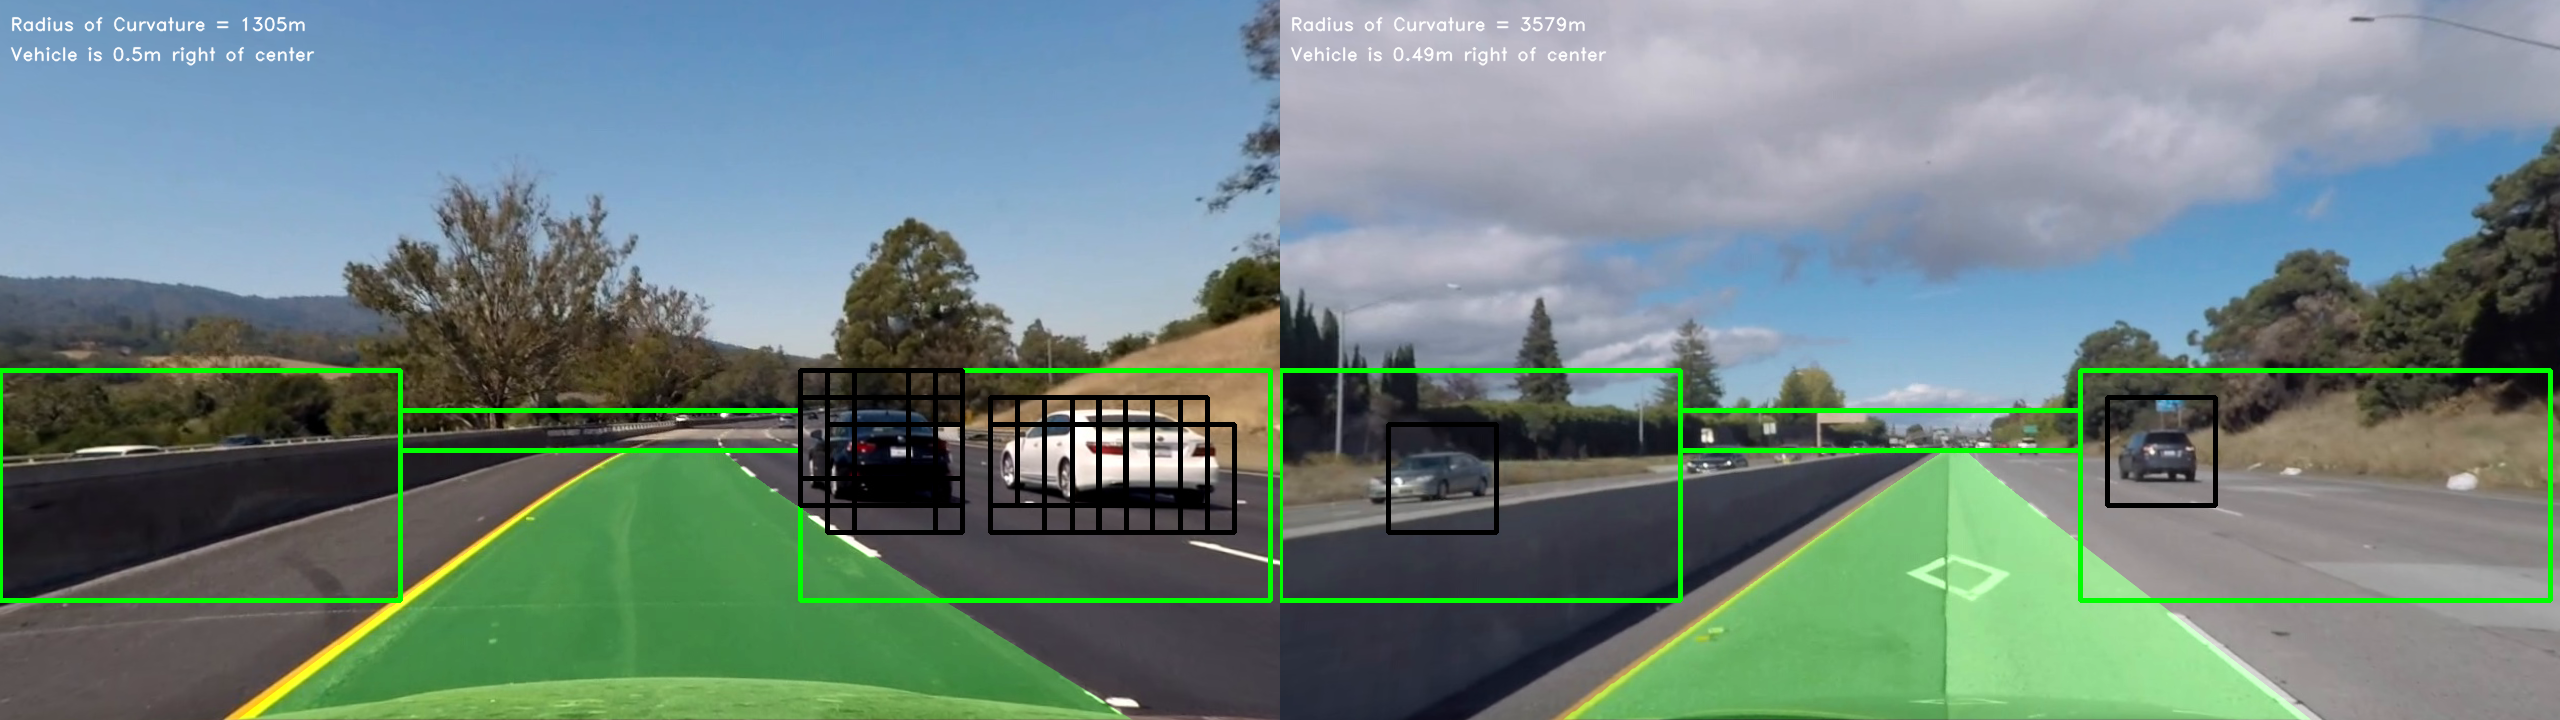
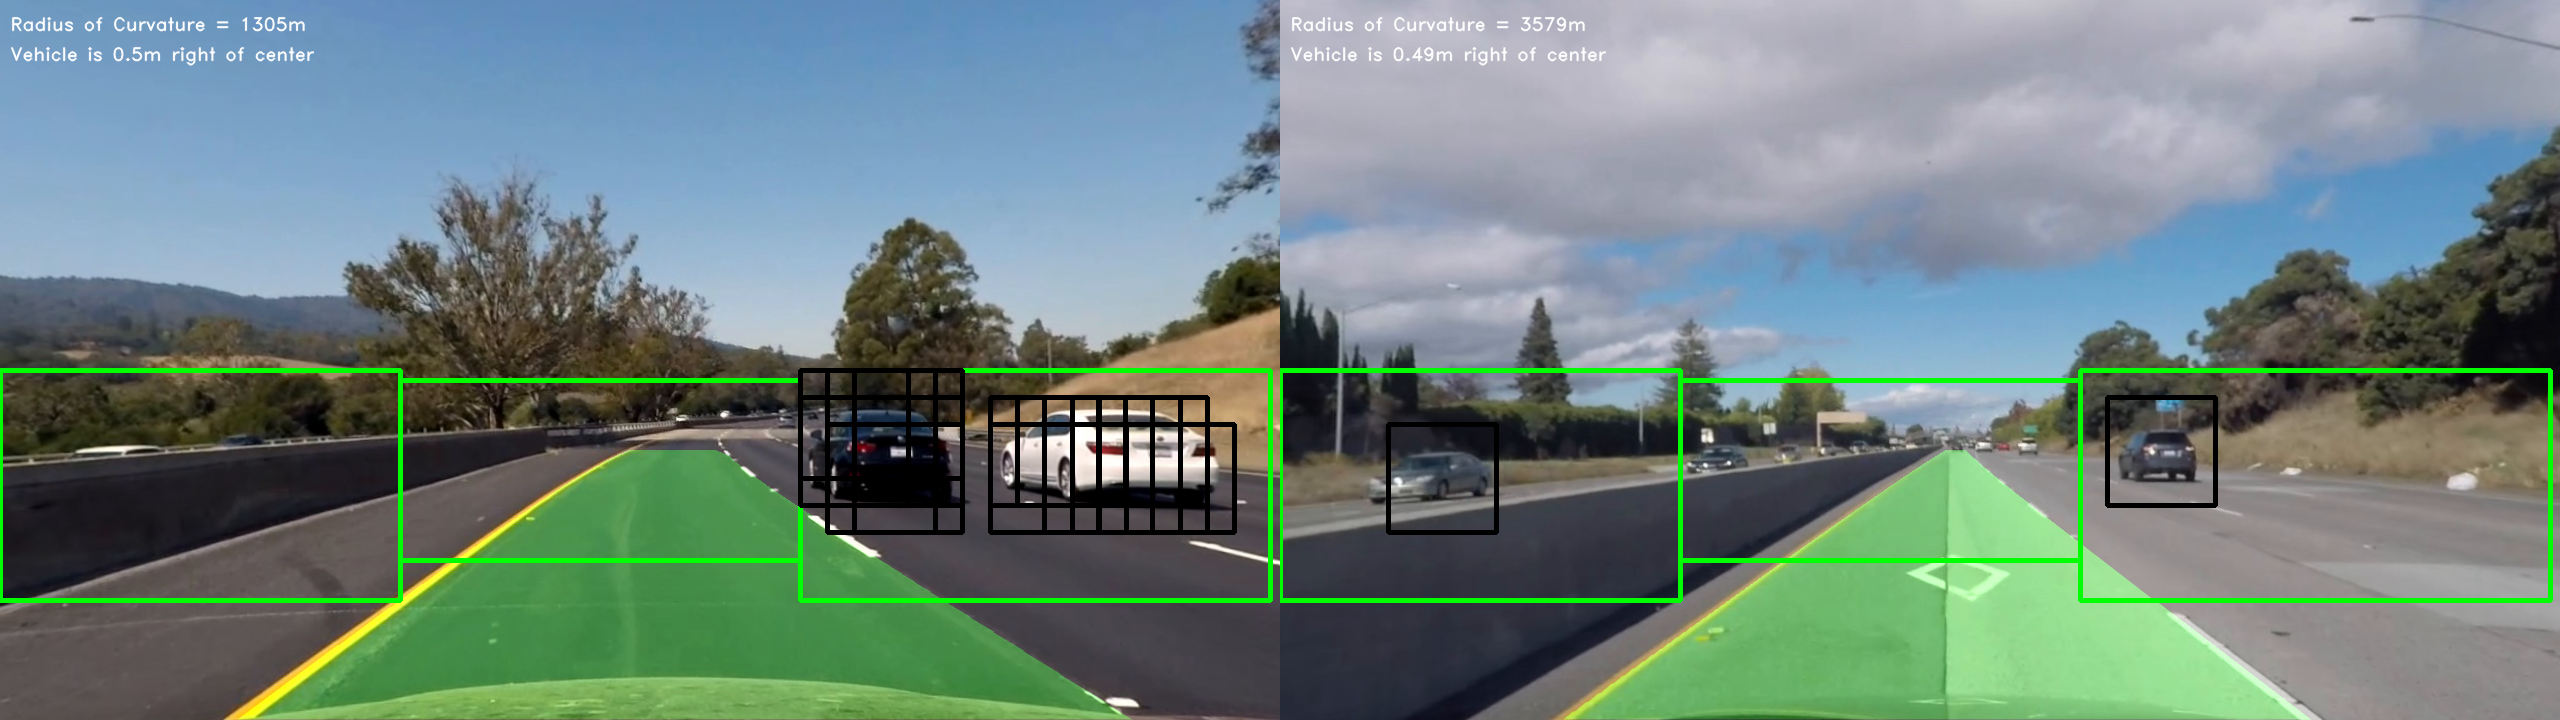
Updated documentation for ROI.

diff --git a/implementation/main.py b/implementation/main.py
@@ -39,20 +39,21 @@ def __main__():
             img = img[:, :, :3]
             bounding_boxes = []
             # get bounding boxes for left side
-            x_start_stop_left, y_start_stop_left = (0, 400), (370, 600)
+            x_start_stop_left, y_start_stop_left = config["xy_start_stop_left"]
             bounding_boxes += WindowSearch.get_bounding_boxes(img, classifier,
                                                               x_start_stop_left,
                                                               y_start_stop_left)
             # # get bounding boxes for top side
-            x_start_stop_top, y_start_stop_top = (400, 800), (410, 450)
+            x_start_stop_top, y_start_stop_top = config["xy_start_stop_top"]
             bounding_boxes += WindowSearch.get_bounding_boxes(img, classifier,
                                                               x_start_stop_top,
                                                               y_start_stop_top)
             # get bounding boxes for right side
-            x_start_stop_right, y_start_stop_right = (800, 1270), (370, 600)
+            x_start_stop_right, y_start_stop_right = config["xy_start_stop_right"]
             bounding_boxes += WindowSearch.get_bounding_boxes(img, classifier,
                                                               x_start_stop_right,
                                                               y_start_stop_right)
+            
             # remove false positives and duplicates from detection
             detected_cars = Helper.remove_false_positives(img, bounding_boxes)
 

diff --git a/implementation/helper.py b/implementation/helper.py
@@ -114,12 +114,13 @@ class Helper:
 
     @staticmethod
     def draw_boxes(img,
-                   x_start_stop_left, y_start_stop_left,
-                   x_start_stop_right, y_start_stop_right,
-                   x_start_stop_top, y_start_stop_top,
                    boxes, color=(0, 0, 0), thick=3):
         from visualization import Visualization
         img_with_boxes = np.copy(img)
+
+        x_start_stop_left, y_start_stop_left = config["xy_start_stop_left"]
+        x_start_stop_top, y_start_stop_top = config["xy_start_stop_top"]
+        x_start_stop_right, y_start_stop_right = config["xy_start_stop_right"]
 
         cv.rectangle(img_with_boxes,
                      (x_start_stop_right[0], y_start_stop_right[0]),
@@ -140,9 +141,9 @@ class Helper:
                          box[0], box[1],
                          color, thick)
 
-        cv.imshow("boxes: ", img_with_boxes)
-        cv.waitKey(1)
-
         Visualization.save_region(img_with_boxes)
 
+        cv.imshow("boxes: ", img_with_boxes)
+        cv.waitKey(1)
+        
         return img_with_boxes

diff --git a/implementation/classifier.py b/implementation/classifier.py
@@ -54,9 +54,7 @@ class Classifier:
         features, labels = shuffle(features, labels)
 
         # initialize SVM with optimized params using GridSearchCV
-        # best params --> kernel='rbf', C=10
-        # but makes the classifier slow
-        clf = SVC(kernel='rbf', C=10)
+        clf = SVC(kernel='rbf', C=0.001)
 
         # train the classifier
         clf.fit(features, labels)
@@ -100,7 +98,7 @@ class Classifier:
                                                             test_size=0.2,
                                                             random_state=42)
 
-        clf = SVC(kernel='rbf', C=10)
+        clf = SVC(kernel='rbf', C=0.001)
 
         t_start = int(time.time())
         # train the classifier

diff --git a/implementation/configuration.py b/implementation/configuration.py
@@ -31,6 +31,11 @@ class Configuration:
         self.classifier = "../trained_classifier_new.p"
         self.calibration_parameters = "../calibration_parameters.p"
 
+        # ROI
+        self.xy_start_stop_left = (0, 400), (370, 600)
+        self.xy_start_stop_top = (400, 800), (380, 560)
+        self.xy_start_stop_right = (800, 1270), (370, 600)
+
         # training datasets
         self.training_not_cars = "../training_datasets/non-vehicles/*/*.png"
         self.training_cars = "../training_datasets/vehicles/*/*.png"

diff --git a/README.md b/README.md
@@ -163,7 +163,7 @@ Parameter for `SVM` classifier found using `GridSearchCV` are as follows:
 | SVM parameters    |Value  |
 |:-----------|:-------------|
 | Kernel  | rbf  |
-| C  | 10      |
+| C  | 0.001      |
 
 ```python
 not_cars = glob.glob(config["training_not_cars"])
@@ -190,9 +190,7 @@ labels = np.hstack((np.ones(len(cars_files)), np.zeros(len(not_cars_files))))
 features, labels = shuffle(features, labels)
 
 # initialize SVM with optimized params using GridSearchCV
-# best params --> kernel='rbf', C=10
-# but makes the classifier slow
-clf = SVC()
+clf = SVC( kernel='rbf', C=0.001)
 
 # train the classifier
 clf.fit(features, labels)
@@ -325,23 +323,23 @@ To optimize the pipeline speed, the Region of Interest (ROI) is improved such th
 | ROI parameters    |Value  |
 |:-----------|:-------------|
 | Left Side  | (0, 400), (370, 600)  |
-| Top Side  | (400, 800), (410, 450)  |
+| Top Side  | (400, 800), (380, 560)  |
 | Right Side  | (800, 1270), (370, 600)  |
 
 
 ```python
 bounding_boxes = []  # get bounding boxes for left side
-x_start_stop_left, y_start_stop_left = (0, 400), (370, 600)
+x_start_stop_left, y_start_stop_left = config["xy_start_stop_left"]
 bounding_boxes += WindowSearch.get_bounding_boxes(img, classifier,
                                                   x_start_stop_left,
                                                   y_start_stop_left)
 # # get bounding boxes for top side
-x_start_stop_top, y_start_stop_top = (400, 800), (410, 450)
+x_start_stop_top, y_start_stop_top = config["xy_start_stop_top"]
 bounding_boxes += WindowSearch.get_bounding_boxes(img, classifier,
                                                   x_start_stop_top,
                                                   y_start_stop_top)
 # get bounding boxes for right side
-x_start_stop_right, y_start_stop_right = (800, 1270), (370, 600)
+x_start_stop_right, y_start_stop_right = config["xy_start_stop_right"]
 bounding_boxes += WindowSearch.get_bounding_boxes(img, classifier,
                                                   x_start_stop_right,
                                                   y_start_stop_right)

diff --git a/documentation.md b/documentation.md
@@ -107,7 +107,7 @@ Parameter for `SVM` classifier found using `GridSearchCV` are as follows:
 | SVM parameters    |Value  |
 |:-----------|:-------------|
 | Kernel  | rbf  |
-| C  | 10      |
+| C  | 0.001      |
 
 	
 ### 3-	Sliding Window Search with HOG subsampling:
@@ -134,6 +134,21 @@ The algorithm is as follows:
     -	Use HOG, Spatial and Color features to predict the labels using pretrained SVM classifier.
     -	Get the coordinates of bounding boxes if the classifier predicts the label as a car.
     
+-	Determining the ROI:
+	-	ROI is carefully chosen after experimentation to achieve a balance between prediction accuracy and time taken window searching.
+    -	The larger the ROI, the more area is search by sliding window algorithm but the time taken will be higher.
+    - Smaller ROI has shorter searching time but at the expense of missing potential regions to detect the vehicle. 
+    
+| ROI parameters    |Value  |
+|:-----------|:-------------|
+| Left Side  | (0, 400), (370, 600)  |
+| Top Side  | (400, 800), (380, 560)  |
+| Right Side  | (800, 1270), (370, 600)  |
+
+![alt text](./documentation/region-1.png)
+![alt text](./documentation/region-2.png)
+![alt text](./documentation/region-3.png)
+
 | Window Search parameters    |Value  |
 |:-----------|:-------------|
 | Number of Windows  | 64  |
@@ -148,18 +163,6 @@ The algorithm is as follows:
 ![alt text](./documentation/multi-window-1.png)
 ![alt text](./documentation/multi-window-2.png)
 
-
-To optimize the pipeline speed, the Region of Interest (ROI) is improved such that the extra regions are not part of window search.
-
-| ROI parameters    |Value  |
-|:-----------|:-------------|
-| Left Side  | (0, 400), (370, 600)  |
-| Top Side  | (400, 800), (410, 450)  |
-| Right Side  | (800, 1270), (370, 600)  |
-
-![alt text](./documentation/region-1.png)
-![alt text](./documentation/region-2.png)
-![alt text](./documentation/region-3.png)
 
 ### 4-	Find the Heatmaps and remove false positives:
 
